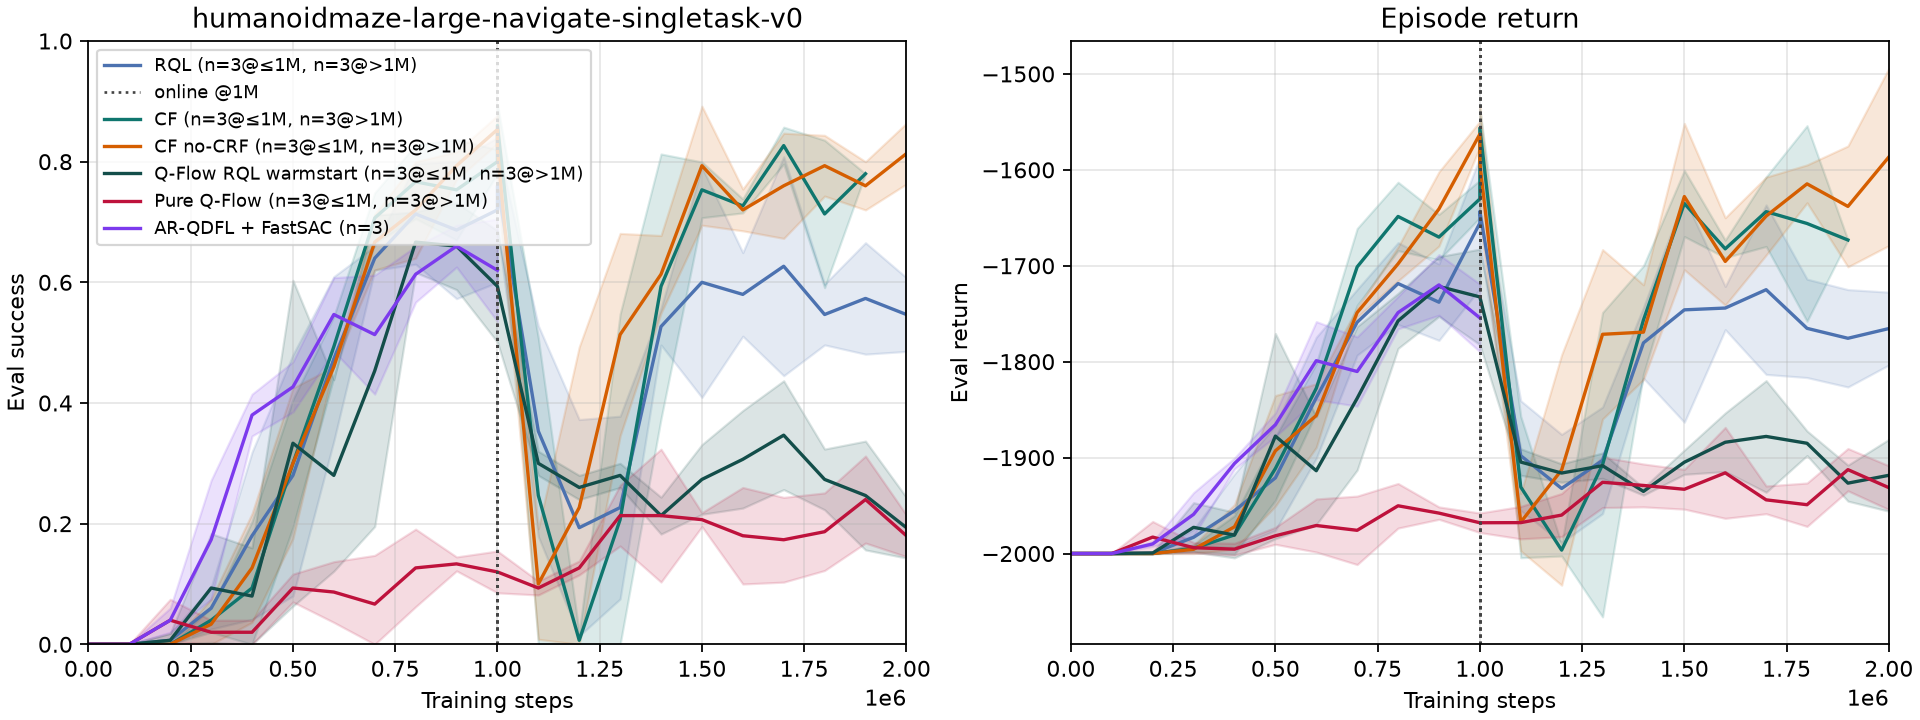
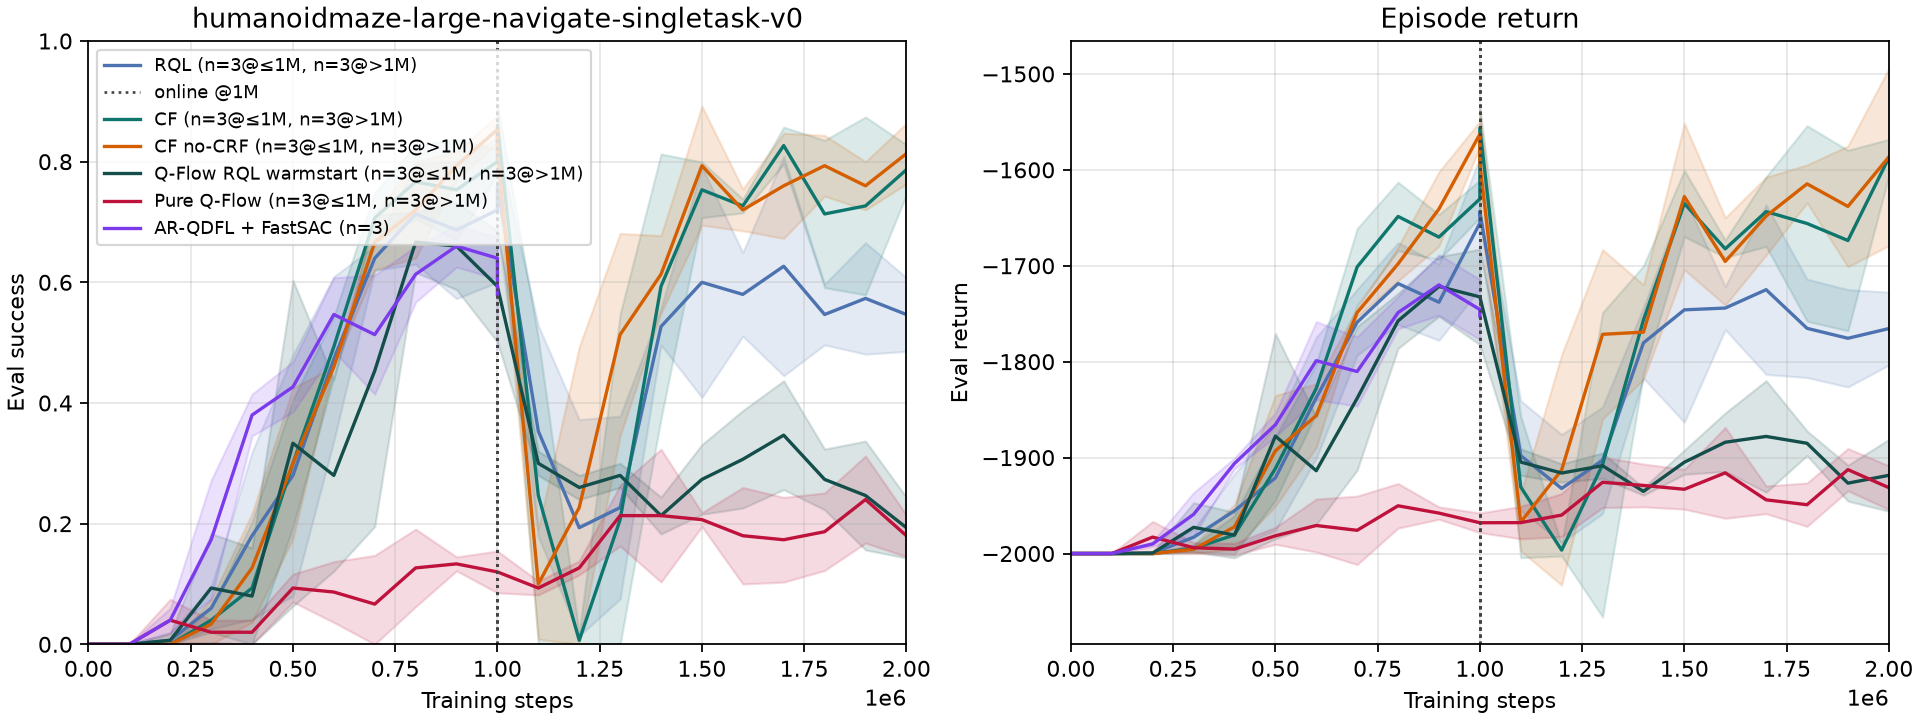
Fix FastSAC offline→online plot endpoints and refresh o2o curves.
Disambiguate duplicate offline-end/post-warmup eval steps, log online metrics separately, and update HL/Antmaze aggregates after CF full online finished.

diff --git a/scripts/run_ar_qdfl_fast_sac.py b/scripts/run_ar_qdfl_fast_sac.py
@@ -9,7 +9,8 @@ Phases (exact counters, resumable):
 
 ``eval.csv`` plot steps: offline ``0..offline_steps`` and
 ``offline_steps + online_env_step`` online. Warmup is absent from eval.csv;
-an immediate eval is written at ``offline_steps`` after warmup completes.
+an immediate post-warmup eval is written at ``offline_steps + 1`` (so it does
+not overwrite the offline-end row at ``offline_steps``).
 
 Does not modify generic ``main.py`` or agent mathematical losses.
 """
@@ -424,6 +425,9 @@ def main(_):
 
     train_logger = AppendCsvLogger(str(exp_dir / "train.csv"))
     warmup_logger = AppendCsvLogger(str(exp_dir / "warmup.csv"))
+    # Separate file: AppendCsvLogger freezes the header on first write, so
+    # online FastSAC keys would otherwise be dropped from train.csv.
+    online_logger = AppendCsvLogger(str(exp_dir / "online_train.csv"))
     eval_logger = AppendCsvLogger(str(exp_dir / "eval.csv"))
 
     utd = int(FLAGS.utd) if FLAGS.utd > 0 else int(config.get("utd", 4))
@@ -615,14 +619,16 @@ def main(_):
                     save_periodic=False,
                 )
         pbar.close()
-        # Immediate eval at plot step = offline_steps (warmup hidden).
+        # Immediate eval at offline_steps+1 (warmup hidden; avoid clobbering
+        # the offline-end row already logged at offline_steps).
+        post_warmup_step = int(FLAGS.offline_steps) + 1
         _run_eval(
             agent=agent,
             eval_env=eval_env,
             config=config,
             tb_logger=tb_logger,
             eval_logger=eval_logger,
-            step=FLAGS.offline_steps,
+            step=post_warmup_step,
         )
         phase = PHASE_ONLINE
         _persist(
@@ -637,7 +643,7 @@ def main(_):
             observation=None,
             numpy_rng=numpy_rng,
             journal=journal,
-            plot_epoch=FLAGS.offline_steps,
+            plot_epoch=post_warmup_step,
             save_periodic=True,
         )
 
@@ -732,7 +738,7 @@ def main(_):
             metrics.update(_info_to_metrics("replay", mix_info))
             metrics["phase/online"] = 1.0
             metrics["online_env_step"] = online_env_step
-            maybe_log(train_logger, metrics, int(pstep), online_env_step)
+            maybe_log(online_logger, metrics, int(pstep), online_env_step)
 
             if FLAGS.eval_interval > 0 and (
                 online_env_step % FLAGS.eval_interval == 0
@@ -815,6 +821,7 @@ def main(_):
 
     train_logger.close()
     warmup_logger.close()
+    online_logger.close()
     eval_logger.close()
     tb_logger.close()
     print(

diff --git a/tests/test_plot_ar_qdfl_fastsac.py b/tests/test_plot_ar_qdfl_fastsac.py
@@ -50,6 +50,64 @@ def _write_eval(run_dir: Path, rows: list[tuple[int, float, float]]) -> None:
             )
 
 
+def test_fastsac_duplicate_offline_end_rows_are_disambiguated(tmp_path: Path):
+    """Offline-end + post-warmup both at 1M must both survive (→ 1M and 1M+1)."""
+    from plot_dflrql_vs_baseline import parse_eval_csv
+
+    group = DEFAULT_AR_QDFL_FASTSAC_GROUP
+    run_dir = tmp_path / "rql" / group / "sd000_a"
+    run_dir.mkdir(parents=True)
+    with (run_dir / "eval.csv").open("w", newline="") as f:
+        w = csv.DictWriter(
+            f,
+            fieldnames=[
+                "step",
+                "evaluation/success",
+                "evaluation/episode.return",
+            ],
+        )
+        w.writeheader()
+        w.writerow(
+            {
+                "step": 1_000_000,
+                "evaluation/success": 0.68,
+                "evaluation/episode.return": -1700.0,
+            }
+        )
+        w.writerow(
+            {
+                "step": 1_000_000,
+                "evaluation/success": 0.50,
+                "evaluation/episode.return": -1800.0,
+            }
+        )
+        w.writerow(
+            {
+                "step": 1_100_000,
+                "evaluation/success": 0.55,
+                "evaluation/episode.return": -1750.0,
+            }
+        )
+
+    rows = parse_eval_csv(run_dir / "eval.csv")
+    assert [int(r["step"]) for r in rows] == [1_000_000, 1_000_001, 1_100_000]
+    assert rows[0]["success"] == 0.68
+    assert rows[1]["success"] == 0.50
+
+    agg = aggregate_single_group(
+        tmp_path,
+        "success",
+        plot_max_step=DEFAULT_ONLINE_PLOT_MAX_STEP,
+        run_group=group,
+    )
+    assert agg is not None
+    steps, mean, *_rest = agg
+    assert 1_000_000 in steps
+    assert 1_000_001 in steps
+    assert float(mean[list(steps).index(1_000_000)]) == pytest.approx(0.68)
+    assert float(mean[list(steps).index(1_000_001)]) == pytest.approx(0.50)
+
+
 def test_fastsac_series_defaults_and_warmup_policy():
     online = {s[0]: s[1] for s in build_online_series()}
     assert online["AR-QDFL + FastSAC"] == AR_QDFL_FASTSAC_PLACEHOLDER

diff --git a/scripts/plot_dflrql_vs_baseline.py b/scripts/plot_dflrql_vs_baseline.py
@@ -118,7 +118,10 @@ AR_QDFL_FASTSAC_WARMUP_POLICY = {
     "warmup_updates": AR_QDFL_FASTSAC_WARMUP_UPDATES,
     "included_in_eval_csv": False,
     "plot_axis": "absolute_0_to_2m",
+    # Post-warmup eval is logged at offline_steps+1 (or remapped there when
+    # older runs wrote a duplicate row at offline_steps).
     "immediate_eval_at_offline_end": True,
+    "post_warmup_eval_step_offset": 1,
     "source": "scripts/run_ar_qdfl_fast_sac.py",
 }
 
@@ -281,6 +284,29 @@ V7_SPLIT_STEP = 1_000_000
 V7_2M_SEEDS = (0, 1, 2)
 
 
+def disambiguate_duplicate_eval_steps(
+    rows: list[dict[str, float]],
+) -> list[dict[str, float]]:
+    """Keep chronological duplicate steps by bumping later copies to step+k.
+
+    AR-QDFL FastSAC historically wrote both the offline-end eval and the
+    post-warmup eval at ``offline_steps``. Without remapping, last-wins merge
+    drops the true offline endpoint. Bumping the 2nd occurrence of step S to
+    S+1 matches the two-phase online-start convention (e.g. 1_000_001).
+    """
+    seen: dict[int, int] = {}
+    out: list[dict[str, float]] = []
+    for row in rows:
+        step = int(row["step"])
+        n = seen.get(step, 0)
+        seen[step] = n + 1
+        if n == 0:
+            out.append(row)
+        else:
+            out.append({**row, "step": step + n})
+    return out
+
+
 def parse_eval_csv(path: Path) -> list[dict[str, float]]:
     rows: list[dict[str, float]] = []
     with path.open() as f:
@@ -298,7 +324,7 @@ def parse_eval_csv(path: Path) -> list[dict[str, float]]:
                 )
             except (KeyError, TypeError, ValueError):
                 continue
-    return rows
+    return disambiguate_duplicate_eval_steps(rows)
 
 
 def seed_from_run_dir(run_dir: Path) -> int | None:
